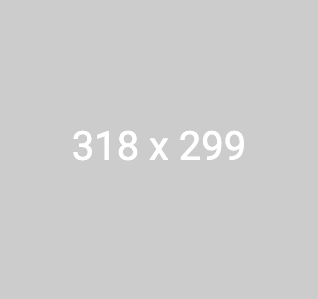
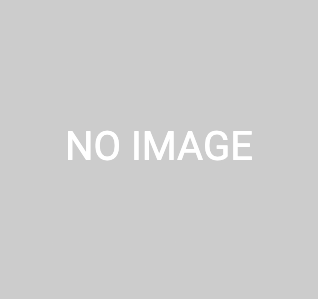
fallback Image and List jeys update

Changed region(s): [[0.1981, 0.4214, 0.7925, 0.5418]]

diff --git a/src/components/common/cards/NFTCard.tsx b/src/components/common/cards/NFTCard.tsx
@@ -1,5 +1,6 @@
 import React from "react";
 import { NFTDataType } from "../../../types";
+import { FallbackImg } from "../../../assets";
 
 type Props = {
     nft: Readonly<NFTDataType>;
@@ -10,7 +11,7 @@ const NFTCard = ({ nft, showDetail }: Props) => (
     <div className="nft--card" onClick={() => showDetail(nft)} role="button">
         <div className="nftcard--img-container">
             <img
-                src={nft?.image_url}
+                src={nft?.image_url ?? FallbackImg}
                 alt="nft__image"
                 className="absolute w-full h-full object-cover rounded-t-lg"
             />

diff --git a/src/pages/Home.tsx b/src/pages/Home.tsx
@@ -53,7 +53,11 @@ const Home = () => {
                             <NFTCardSkeleton />
                         ) : (
                             nfts.map(nft => (
-                                <NFTCard nft={nft} showDetail={showDetail} />
+                                <NFTCard
+                                    nft={nft}
+                                    showDetail={showDetail}
+                                    key={nft.id}
+                                />
                             ))
                         )}
                     </section>

diff --git a/src/assets/images/index.ts b/src/assets/images/index.ts
@@ -1,0 +1,2 @@
+/* eslint-disable import/prefer-default-export */
+export { default as FallbackImg } from "./fallback.png";

diff --git a/src/assets/index.ts b/src/assets/index.ts
@@ -1,0 +1,1 @@
+export * from "./images";
